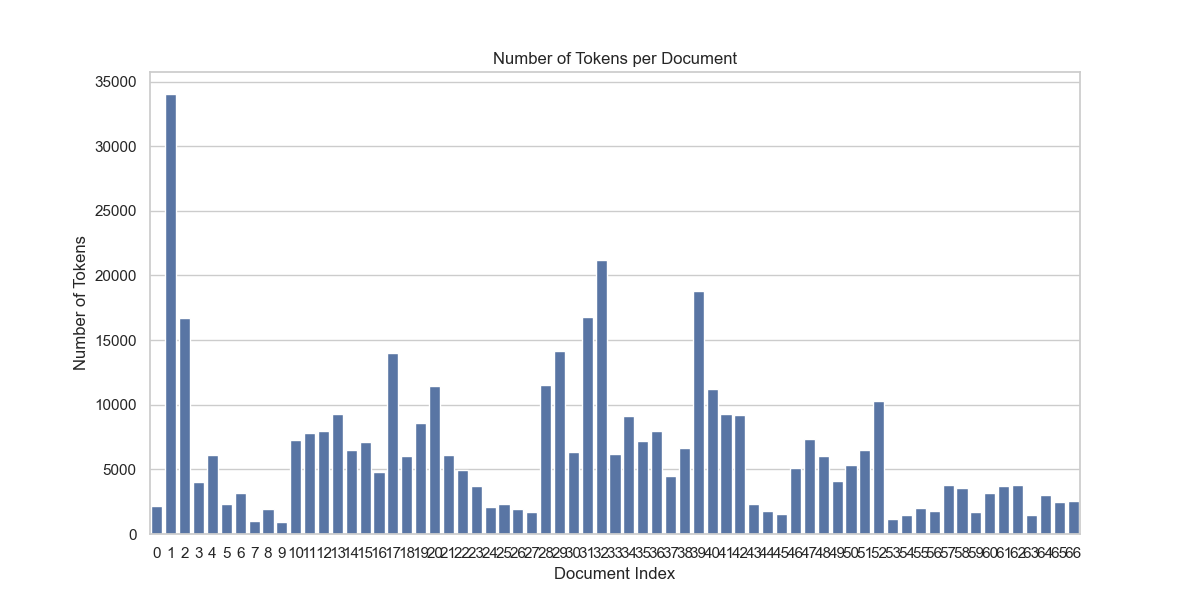
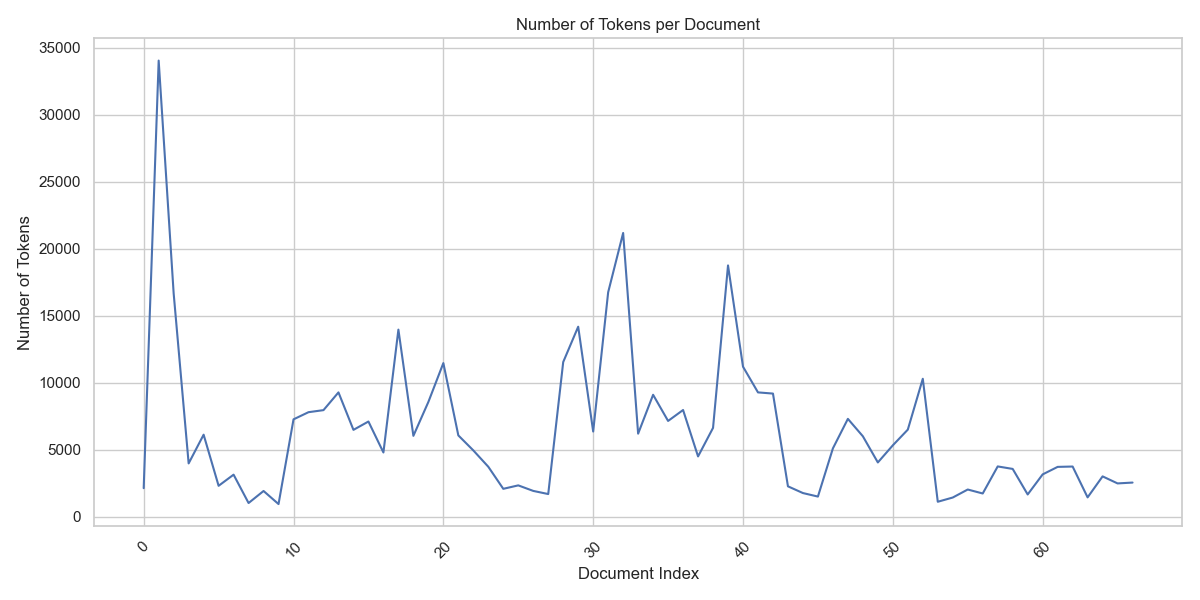
Change visualizing scripts to add lexicon diversity plots

diff --git a/src/scripts/visualizing_data.py b/src/scripts/visualizing_data.py
@@ -64,11 +64,19 @@ sns.set(style="whitegrid")
 
 # 1. Plot number of tokens per document
 doc_lengths = [len(doc['tokens']) for doc in documents]
+
+# If the number of documents is too large, sample a subset
+if len(doc_lengths) > 100:
+    sampled_indices = np.random.choice(len(doc_lengths), 100, replace=False)
+    doc_lengths = [doc_lengths[i] for i in sampled_indices]
+
 plt.figure(figsize=(12, 6))
-sns.barplot(x=range(len(doc_lengths)), y=doc_lengths)
+sns.lineplot(x=range(len(doc_lengths)), y=doc_lengths)
 plt.title('Number of Tokens per Document')
 plt.xlabel('Document Index')
 plt.ylabel('Number of Tokens')
+plt.xticks(rotation=45)
+plt.tight_layout()
 plt.savefig('pictures/token_counts.png')
 plt.close()
 
@@ -230,7 +238,6 @@ def calculate_sentiment_score(text):
 def lexical_diversity(text):
     return (len(set(text)) / len(text))  * 100
 
-
 # Add sentiment scores to df_aviation_corpus
 df_aviation_corpus['Sentiment_Negative'] = sentiment_df['Negative']
 df_aviation_corpus['Sentiment_Neutral'] = sentiment_df['Neutral']
@@ -245,6 +252,47 @@ df_aviation_corpus['lexicon_diversity'] = df_aviation_corpus['tokens'].apply(lex
 
 # Verify the new columns
 print(df_aviation_corpus.head())
+
+# Plot Lexical Diversity
+# Boxplot
+plt.figure(figsize=(12, 6))
+sns.boxplot(data=df_aviation_corpus, y='lexicon_diversity')
+plt.title('Boxplot of Lexical Diversity')
+plt.ylabel('Lexical Diversity')
+plt.tight_layout()
+plt.savefig('pictures/lexical_diversity_boxplot.png')
+plt.close()
+
+# Bar Plot (Average Lexical Diversity by Category)
+plt.figure(figsize=(12, 6))
+avg_lexical_diversity = df_aviation_corpus.groupby('category')['lexicon_diversity'].mean().reset_index()
+sns.barplot(data=avg_lexical_diversity, x='category', y='lexicon_diversity')
+plt.title('Average Lexical Diversity by Category')
+plt.xlabel('Category')
+plt.ylabel('Average Lexical Diversity')
+plt.xticks(rotation=45)
+plt.tight_layout()
+plt.savefig('pictures/avg_lexical_diversity_by_category.png')
+plt.close()
+
+# Violin Plot
+plt.figure(figsize=(12, 6))
+sns.violinplot(data=df_aviation_corpus, y='lexicon_diversity')
+plt.title('Violin Plot of Lexical Diversity')
+plt.ylabel('Lexical Diversity')
+plt.tight_layout()
+plt.savefig('pictures/lexical_diversity_violin.png')
+plt.close()
+
+# Histogram
+plt.figure(figsize=(12, 6))
+sns.histplot(df_aviation_corpus['lexicon_diversity'], bins=20, kde=True)
+plt.title('Histogram of Lexical Diversity')
+plt.xlabel('Lexical Diversity')
+plt.ylabel('Frequency')
+plt.tight_layout()
+plt.savefig('pictures/lexical_diversity_histogram.png')
+plt.close()
 
 # If you want to save the updated dataframe
 df_aviation_corpus.to_pickle('data/processed/updated_aviation_corpus.pkl')
@@ -264,4 +312,3 @@ print(df_aviation_corpus.head())
 print('Aviation Corpus: Filename, Texts Lengths, Frequent Words, Readability, Sentiment Scores, and Lexicon Diversity.')
 
 print(df_aviation_corpus[['filename', 'texts_lengths', 'frequent_words', 'readability_score', 'sentiment_score','lexicon_diversity']].head())
-
